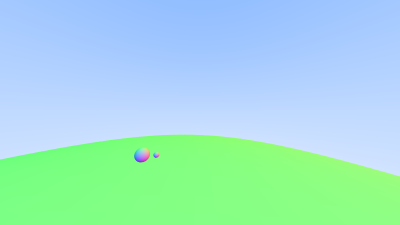
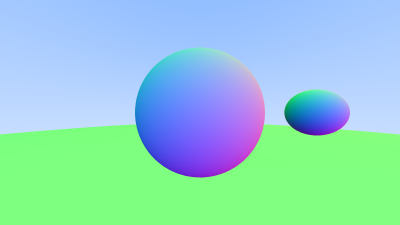
rando changes

Changed region(s): [[0.0, 0.1867, 1.0, 0.8089]]

diff --git a/main.cpp b/main.cpp
@@ -42,11 +42,10 @@ int main() {
     world.add(make_shared<sphere>(point3(0,-100.5,-1), 100)); //ground
 
     // Camera
-
     auto focal_length = 1.0;
     auto viewport_height = 2.0;
     auto viewport_width = viewport_height * (static_cast<double>(image_width) / image_height);
-    auto camera_center = point3(4.1, 3, 7);
+    auto camera_center = point3(0, 0, 0);
 
     // Calculate the vectors across the horizontal and down the vertical viewport edges.
     auto viewport_u = vec3(viewport_width, 0, 0);
